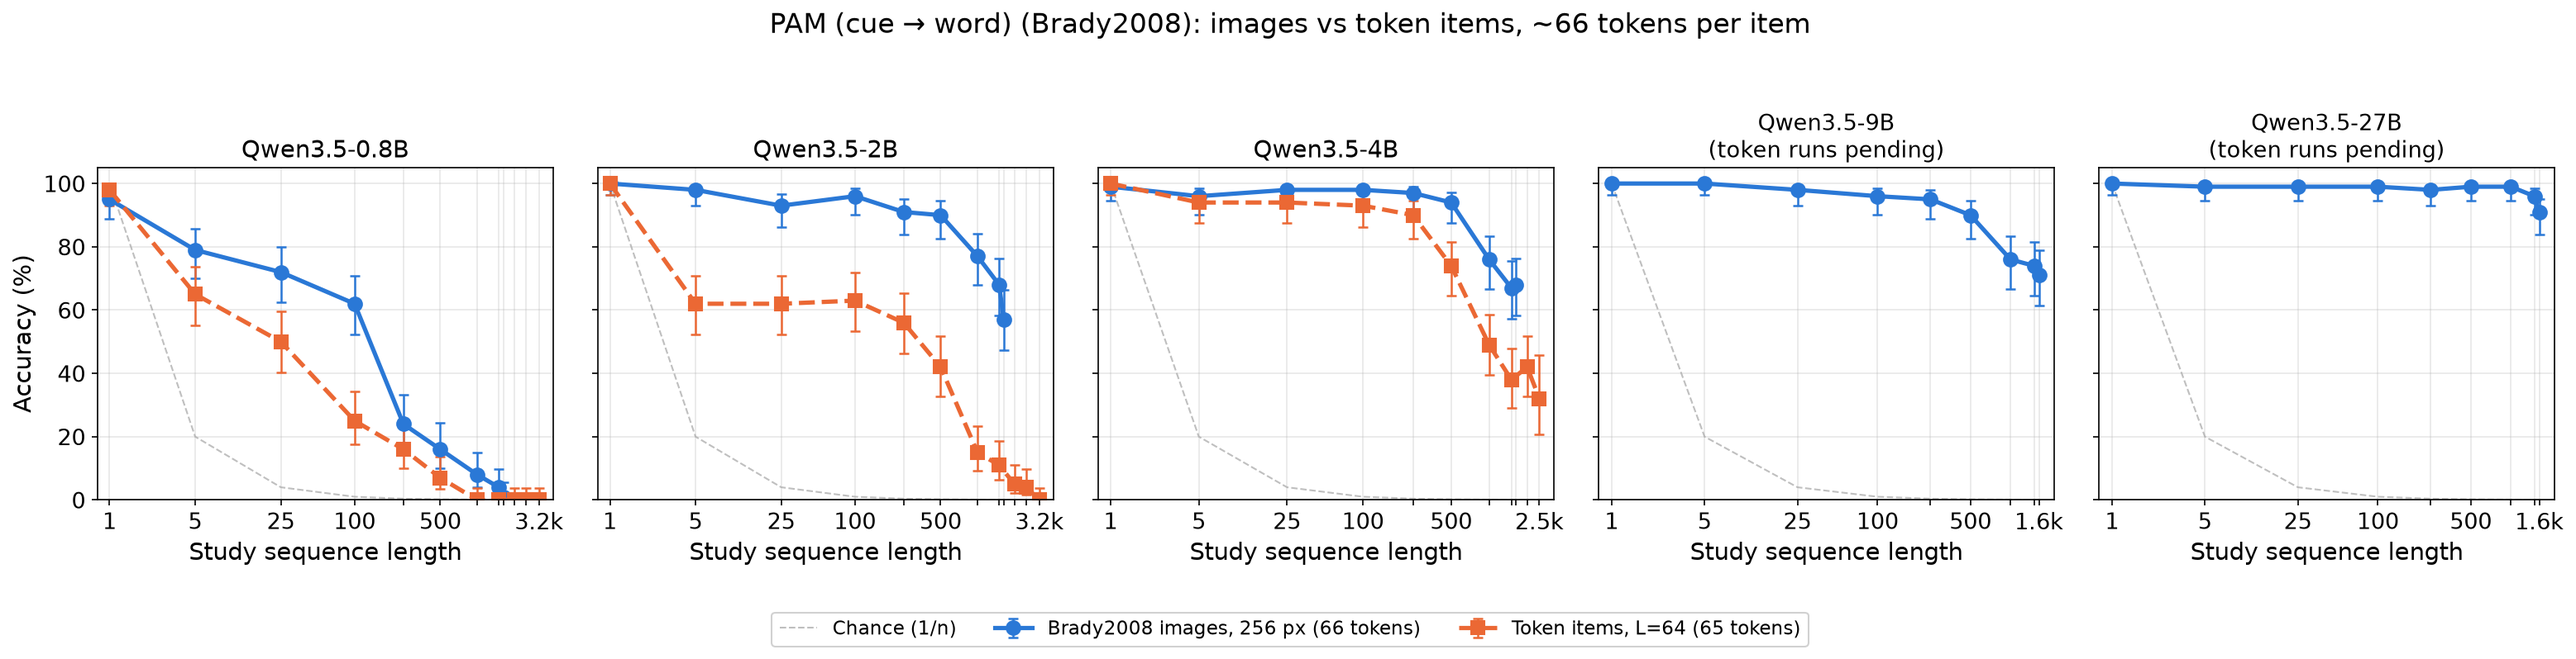
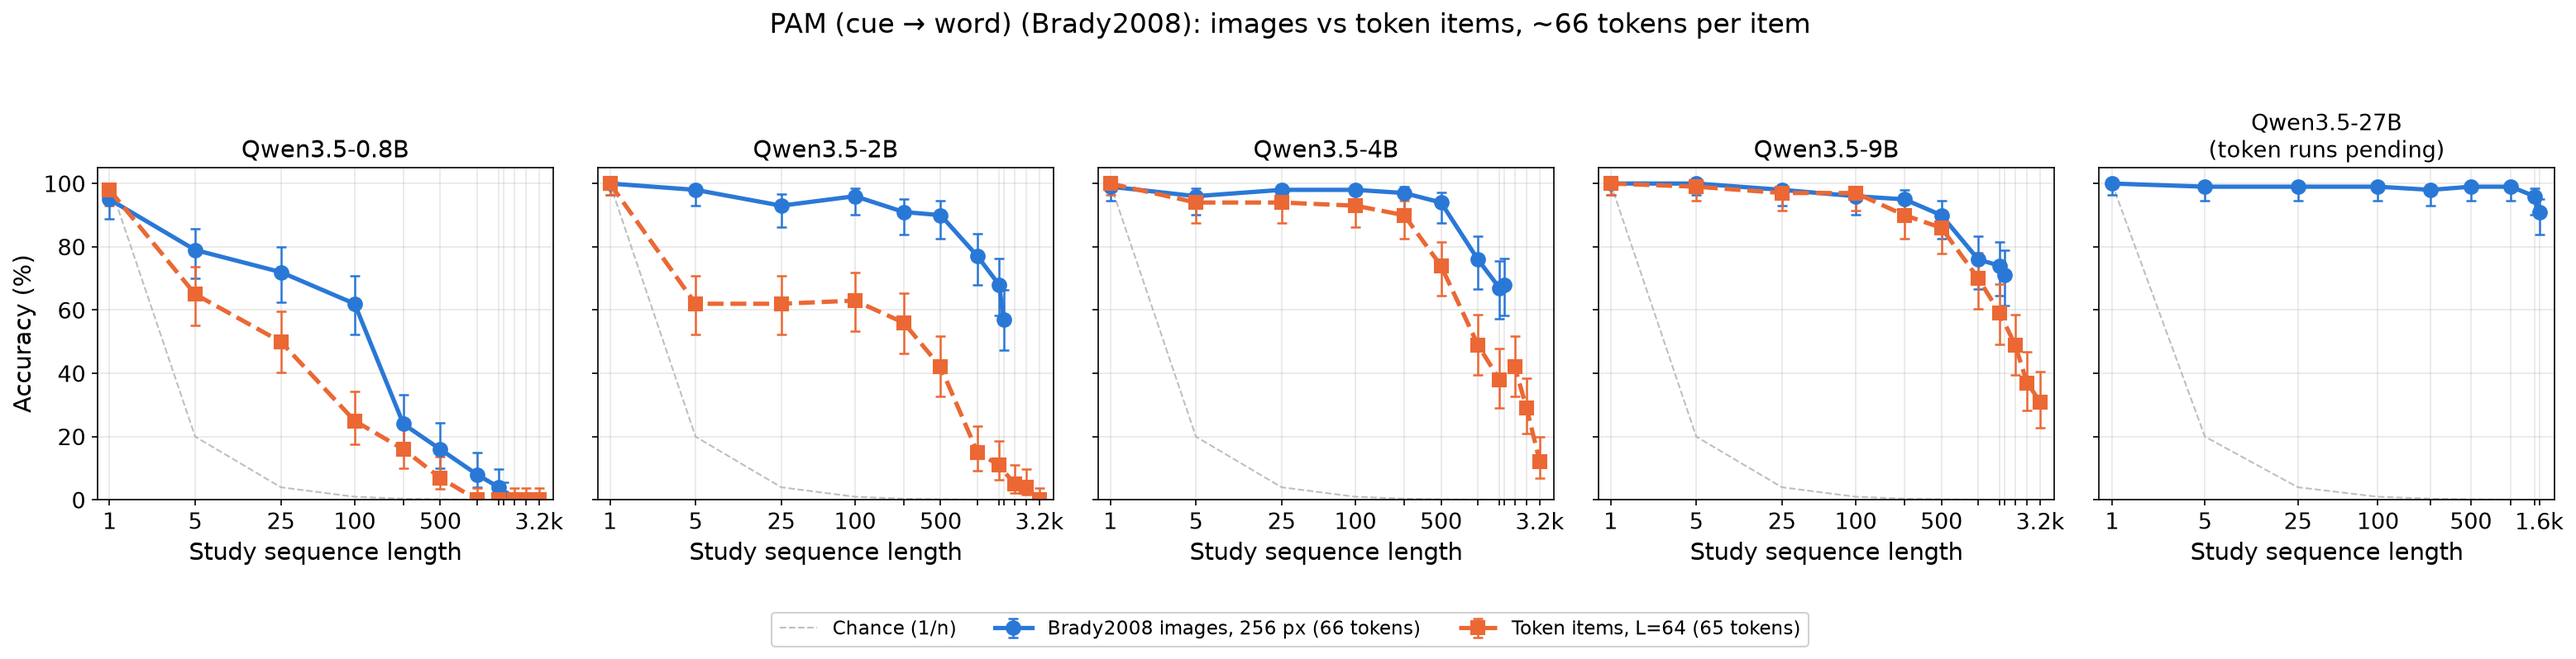
Thinking and natural-preflight config headers: measured costs, peaks and sbatch lines
Token thinking configs carry the preflight's per-trial times and the budget finding (n=500 at L64/L256 hits the
12k budget on every trace); natural_preflight gets the per-model times and the two time limits. The natural-pool
test passes minimum=10 to build_cache. Token PAM and the two PAM tokens-vs-images figures regenerated.

diff --git a/tokens/test_stimuli.py b/tokens/test_stimuli.py
@@ -386,7 +386,7 @@ def test_natural_pools(ev):
         docs = list(corpus.read_paragraphs(tmp / "train.txt"))
         assert len(docs) == 12 * 6 + 4 and max(d for d, _ in docs) == 12
         for L in (4, 8):
-            meta = corpus.build_cache(tok, L, corpus=tmp / "train.txt", cache_dir=tmp / "cache", target=40)
+            meta = corpus.build_cache(tok, L, corpus=tmp / "train.txt", cache_dir=tmp / "cache", target=40, minimum=10)
             assert meta["n_spans"] == 40 and meta["item_length"] == L and meta["n_documents"] == 13
         # The target is a cap: a smaller corpus gives what it has, down to the minimum.
         meta = corpus.build_cache(tok, 4, corpus=tmp / "train.txt", cache_dir=tmp / "cache", target=1000, minimum=10)
@@ -396,7 +396,7 @@ def test_natural_pools(ev):
             raise AssertionError("a corpus below the minimum should be refused")
         except ValueError:
             pass
-        meta = corpus.build_cache(tok, 4, corpus=tmp / "train.txt", cache_dir=tmp / "cache", target=40)
+        corpus.build_cache(tok, 4, corpus=tmp / "train.txt", cache_dir=tmp / "cache", target=40, minimum=10)
         natural = corpus.SpanPool("natural", tok, cache_dir=tmp / "cache")
         scrambled = corpus.SpanPool("scrambled", tok, cache_dir=tmp / "cache")
         spans = natural.spans(8)
